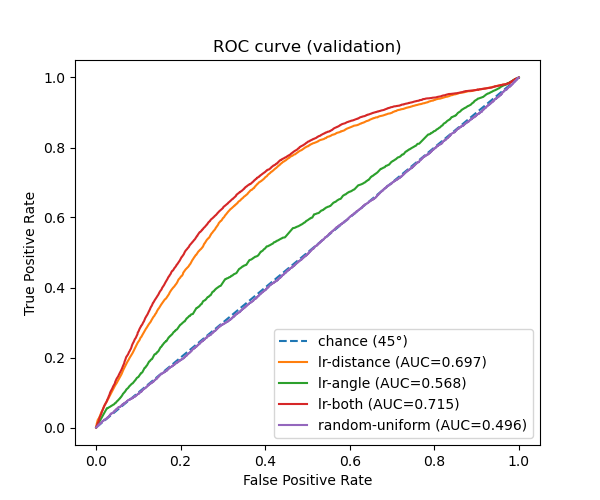
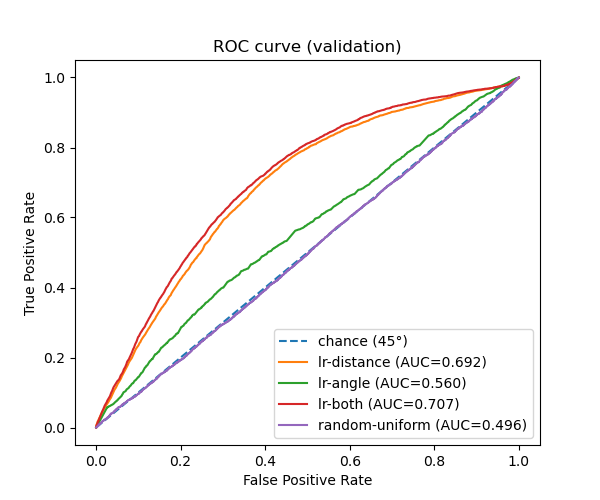
Q2: update figures and blog text

diff --git a/_posts/2025-11-08-milestone-2.md b/_posts/2025-11-08-milestone-2.md
@@ -30,87 +30,87 @@ All experiments and the most relevant models are logged on our [Weights & Biases
 - *Figure 1.1 - *
 
 ---
+
 # **Step 2: Baseline Models**
+
 we trained three baseline **logistic regressions** on **distance only**, **angle only**, and **distance+angle**, plus a **random-uniform** baseline. evaluation used **validation probabilities** only.
 
 **setup.** features: **distance_from_net**, **shot_angle**; target: **is_goal** (1 = goal). from `baseline_train.csv` we made a **stratified 80/20 split (seed 42)** and trained three default logistic regressions: (i) distance, (ii) angle, (iii) distance+angle. we also included a random-uniform baseline. missing values in the two features were imputed with the **median fitted on the training split**. the **test set was not used**.
 
-**Evaluation.** because we care about **probabilities** (expected goals), all curves use **validation-set predicted probabilities for class 1 (goal)**:
+**evaluation.** because we care about **probabilities** (expected goals), all curves use **validation-set predicted probabilities for class 1 (goal)**:
 
 1. **roc curve (+ auc)** with a **chance (45°)** line
 2. **goal rate vs model percentile**
 3. **cumulative % of goals vs percentile**
 4. **reliability (calibration) diagram**
 
-**Findings.**
+**Findings:**
 
-- **distance+angle** ranks shots best; **distance** is next; **angle** alone is only slightly above chance; **random-uniform** tracks the chance line.
-- high-probability percentiles have much higher **goal rates**, and **distance+angle** captures goals fastest in the cumulative plot.
-- calibration isn’t perfect (typical for simple baselines): most predictions sit in a low-probability band and deviate from the diagonal, but the ranking remains useful.
-
-## Question 2.1 : 
-we split the data into training and validation using a stratified split so the goal rate is preserved. we then trained a default **logistic regression** on a single feature, **distance_from_net**, and evaluated **accuracy** on the validation set. the accuracy looks deceptively decent, but inspection of the predictions shows most probabilities are very small; with a 0.5 threshold, the model predicts almost all shots as “no goal.” because goals are relatively rare, a model can achieve high accuracy without actually identifying goals. **takeaway:** accuracy is a poor metric here; we should evaluate the **predicted probabilities** directly rather than hard 0/1 decisions.
-
-## Question 2.2 :
-Motivated by q3.1, we use `predict_proba` and evaluate **validation probabilities** for the positive class (goal). we generated four diagnostics:
-
-- **roc curve + auc** (with a **chance (45°)** line): assesses ranking quality independent of a fixed threshold.
-- **goal rate vs model percentile:** shows how the empirical goal rate changes as we move from the highest to the lowest predicted percentiles.
-- **cumulative % of goals vs percentile:** shows how quickly each model captures the total pool of goals as we move down from the highest predicted shots.
-- **reliability (calibration) diagram:** compares predicted probabilities to observed frequencies.
-
-    these plots reveal that probability ranking is informative even when raw accuracy is misleading. (per the instructions, we defer showing the full, multi-model figures until the next subsection.)
-## Question 2.3 : 
-We repeated the same setup for **logistic regression on angle only**, and on **distance+angle**, and we added a **random-uniform** baseline (probabilities sampled from 0–1). we then produced the **same four figures** on the validation set, each containing **four curves** (distance, angle, distance+angle, random-uniform):
-
-- **roc/auc:** **distance+angle** ranks shots best; **distance** is next; **angle** alone is weak; **random-uniform** tracks chance.
-- **goal rate vs percentile:** the top predicted percentiles have the highest goal rates; curves order as distance+angle > distance > angle > random.
-- **cumulative % of goals vs percentile:** distance+angle accumulates goals fastest, confirming stronger ranking.
-- **reliability diagram:** probabilities are not perfectly calibrated (typical for simple baselines), but the ranking remains useful.
-    
-    **takeaway:** distance carries most of the signal; adding angle improves ranking further, while the random baseline provides the expected reference.
-    
-## Question 2.4
-
-Next to the figures, we include links to the **three experiment runs** (distance, angle, distance+angle). For each of these runs, we also **saved the trained model as a W&B artifact** and tagged it clearly so it can be referenced later.
+* **distance+angle** gives the best ranking (**AUC ≈ 0.707**), **distance** is close behind (**AUC ≈ 0.692**), **angle** is weak (**AUC ≈ 0.560**), and **random-uniform** sits at chance (**AUC ≈ 0.496**).
+* high-probability percentiles have much higher **goal rates**; **distance+angle** stays above the others across most of the curve, with **distance** next and **angle** trailing; **random** is nearly flat.
+* in the cumulative plot, **distance+angle** captures goals fastest, then **distance**, then **angle**; **random** increases almost linearly.
+* calibration isn’t perfect: most predictions lie in a low-probability band, and points deviate from the diagonal (some under/over-confidence), but the ranking remains useful.
 
 ---
 
+## **Question 2.1**
+
+we split the data into training and validation using a stratified split so the goal rate is preserved. we then trained a default **logistic regression** on a single feature, **distance_from_net**, and evaluated **accuracy** on the validation set. the accuracy looks deceptively decent, but inspection of the predictions shows most probabilities are very small; with a 0.5 threshold, the model predicts almost all shots as “no goal.” because goals are relatively rare, a model can achieve high accuracy without actually identifying goals. **takeaway:** accuracy is a poor metric here; we should evaluate the **predicted probabilities** directly rather than hard 0/1 decisions.
+
+## **Question 2.2**
+
+motivated by q2.1, we use `predict_proba` and evaluate **validation probabilities** for the positive class (goal). we generated four diagnostics: roc/auc, goal-rate vs percentile, cumulative % of goals vs percentile, and a reliability diagram. these show that probability ranking is informative even when raw accuracy is misleading.
+
+## **Question 2.3**
+
+we repeated the setup for **angle only** and **distance+angle**, and added a **random-uniform** baseline. we produced the **same four figures** on the validation set, each with **four curves**.
+
+* **roc/auc:** **distance+angle (≈ 0.707)** > **distance (≈ 0.692)** >> **angle (≈ 0.560)** > **random (≈ 0.496)**.
+* **goal rate vs percentile:** top percentiles show the highest goal rates; ordering is **distance+angle** > **distance** > **angle** > **random** (random is nearly flat).
+* **cumulative % of goals:** **distance+angle** accumulates goals fastest across percentiles, confirming stronger ranking than single-feature models.
+* **reliability:** models are not perfectly calibrated; most predictions live around low probabilities, with some bins showing under/over-confidence (especially at higher predicted values where sample sizes are smaller).
+
+**takeaway:** **distance** carries most of the signal; **adding angle** improves ranking further; **random** behaves as expected.
+
+---
+
+## **Question 2.4**
+
 {% include milestone2/q2_fig_roc_auc.html width="600" %}
 
-**Figure — ROC (+ AUC, ranking quality).** _lr-both_ ranks shots best (highest AUC), _lr-distance_ is next, and _lr-angle_ is only slightly above chance. The **random-uniform** curve hugs the **chance (45°)** line, as expected. **Takeaway:** distance carries most of the signal; adding angle improves ranking.
+**Figure — ROC (+ AUC, ranking quality).** *lr-both* (**AUC ≈ 0.707**) ranks shots best; *lr-distance* (**AUC ≈ 0.692**) is next; *lr-angle* (**AUC ≈ 0.560**) is only slightly above chance; **random-uniform** (**AUC ≈ 0.496**) tracks the **chance (45°)** line.
 
 ---
 
 {% include milestone2/q2_fig_goalrate_vs_percentile.html width="600" %}
 
-**Figure — Goal rate vs model percentile.** Goal rate is highest at the **top percentiles** and drops as we move lower. Curves order: **lr-both** > **lr-distance** > **lr-angle**; **random-uniform** is relatively flat. **Takeaway:** models meaningfully separate dangerous from low-quality shots.
+**Figure — Goal rate vs model percentile.** Goal rate peaks at the **top percentiles** and declines steadily. Ordering across most of the curve is **lr-both** > **lr-distance** > **lr-angle**; **random-uniform** is relatively flat.
 
 ---
 
 {% include milestone2/q2_fig_cum_goals_vs_percentile.html width="600" %}
 
-**Figure — Cumulative % of goals vs percentile.** **lr-both** rises fastest (captures goals earliest), **lr-distance** follows, **lr-angle** lags, and **random-uniform** increases nearly linearly. **Takeaway:** focusing on the top-probability shots covers a large fraction of goals.
+**Figure — Cumulative % of goals vs percentile.** **lr-both** rises fastest (captures goals earliest), **lr-distance** follows closely, **lr-angle** lags, and **random-uniform** increases near linearly.
 
 ---
 
 {% include milestone2/q2_fig_reliability_diagram.html width="600" %}
 
-**Figure — Reliability (calibration) diagram.** Most predictions lie in a **low-probability band**. Deviations from the diagonal indicate **imperfect calibration** (some under/over-confidence), which is typical for simple baselines. Ranking is still useful, as shown by the earlier plots.
+**Figure — Reliability (calibration) diagram.** Most predictions sit in a **low-probability band**; deviations from the diagonal indicate **imperfect calibration** (some under/over-confidence), which is typical for simple baselines. Despite this, ranking remains useful, as confirmed by the ROC and percentile plots.
 
----
+--
 
 - **Artifacts & runs.** The three models are saved as W&B **artifacts**, and each experiment run is linked below:
 
 ### Baseline Runs
-- [lr-distance (run)](https://wandb.ai/IFT6758_team4/milestone_2/runs/kikm28qp?nw=nwuseraftabgazali003)
-- [lr-angle (run)](https://wandb.ai/IFT6758_team4/milestone_2/runs/lcfix0ii?nw=nwuseraftabgazali003)
-- [lr-both (run)](https://wandb.ai/IFT6758_team4/milestone_2/runs/88d0ye0e?nw=nwuseraftabgazali003)
+- [lr-distance (run)](https://wandb.ai/IFT6758_team4/milestone_2/runs/26ipd8pc?nw=nwuseraftabgazali003)
+- [lr-angle (run)](https://wandb.ai/IFT6758_team4/milestone_2/runs/4qcqb2hw?nw=nwuseraftabgazali003)
+- [lr-both (run)](https://wandb.ai/IFT6758_team4/milestone_2/runs/3g7slfrs?nw=nwuseraftabgazali003)
 
 ### Saved Baseline Models (Artifacts)
-- [lr-distance:v0](https://wandb.ai/IFT6758_team4/milestone_2/artifacts/model/lr-distance/v0)
-- [lr-angle:v0](https://wandb.ai/IFT6758_team4/milestone_2/artifacts/model/lr-angle/v0)
-- [lr-both:v0](https://wandb.ai/IFT6758_team4/milestone_2/artifacts/model/lr-both/v0)
+- [lr-distance:v1](https://wandb.ai/IFT6758_team4/milestone_2/artifacts/model/lr-distance/v1)
+- [lr-angle:v1](https://wandb.ai/IFT6758_team4/milestone_2/artifacts/model/lr-angle/v1)
+- [lr-both:v1](https://wandb.ai/IFT6758_team4/milestone_2/artifacts/model/lr-both/v1)
 
 **Note.** The **test set remains untouched** in this section; everything above uses the training/validation split only.
 
@@ -322,8 +322,11 @@ Calibration is trained on train-fold OOF scores and applied to validation probab
 ---
 
 ## Question 6.1:
+<<<<<<< Updated upstream
+## Question 6.2:
+=======
 
-## Methods & Ablations (post-fix)
+## Methods & Ablations
 
 | Approach                        | Key settings                                  |   Val ROC-AUC |    Val PR-AUC | Outcome / Notes                                                                              |
 | ------------------------------- | --------------------------------------------- | ------------: | ------------: | -------------------------------------------------------------------------------------------- |
@@ -338,7 +341,7 @@ Calibration is trained on train-fold OOF scores and applied to validation probab
 **Interpretation.** After the dataset fix, separability jumps to **AUC ≈ 0.86 / PR-AUC ≈ 0.525** for the top two models (CatBoost, HGB). **Calibration** leaves AUC unchanged—as expected—but improves probability quality (lower Brier/LogLoss), which matters for xG usage. Random Forest still lags, and added complexity (stacking/blends/MoE) doesn’t beat a single, calibrated CatBoost, so we ship the **calibrated CatBoost** as the final model.
 
 
-## Required figures (validation)
+## Required figures
 
 {% include milestone2/q6_fig_roc.html width="600" %}
 
@@ -371,6 +374,19 @@ Calibration is trained on train-fold OOF scores and applied to validation probab
 
 ## Question 7.1:
 ## Question 7.2:
+### W&B experiment links
+
+- **Final model (CatBoost, calibrated) — run:** *[q6_catboost_final_calibrated](https://wandb.ai/IFT6758_team4/milestone_2/runs/kggfjh41?nw=nwuseraftabgazali003)*
+- **Final model — artifact:** *[q6_catboost_final_calibrated:v2](https://wandb.ai/IFT6758_team4/milestone_2/artifacts/model/q6_catboost_final_calibrated/v2)*
+- **HGB comparator — run:** *[q6_final_hgb_locked17](https://wandb.ai/IFT6758_team4/milestone_2/runs/rtzdqzn9?nw=nwuseraftabgazali003)*
+- **CatBoost (raw) — run:** *[q6_catboost_raw_locked17](https://wandb.ai/IFT6758_team4/milestone_2/runs/jbxjv0j7?nw=nwuseraftabgazali003)*
+- **nseed Random Forest - run:** *[q6_nseed_RF_locked17](https://wandb.ai/IFT6758_team4/milestone_2/runs/jamz7upp?nw=nwuseraftabgazali003)*
+
+# **Q7 — Evaluate on test set!**
+
+## Question 7.1:
+## Question 7.2:
+>>>>>>> Stashed changes
 
 
 - *Figure 6.1 -*
